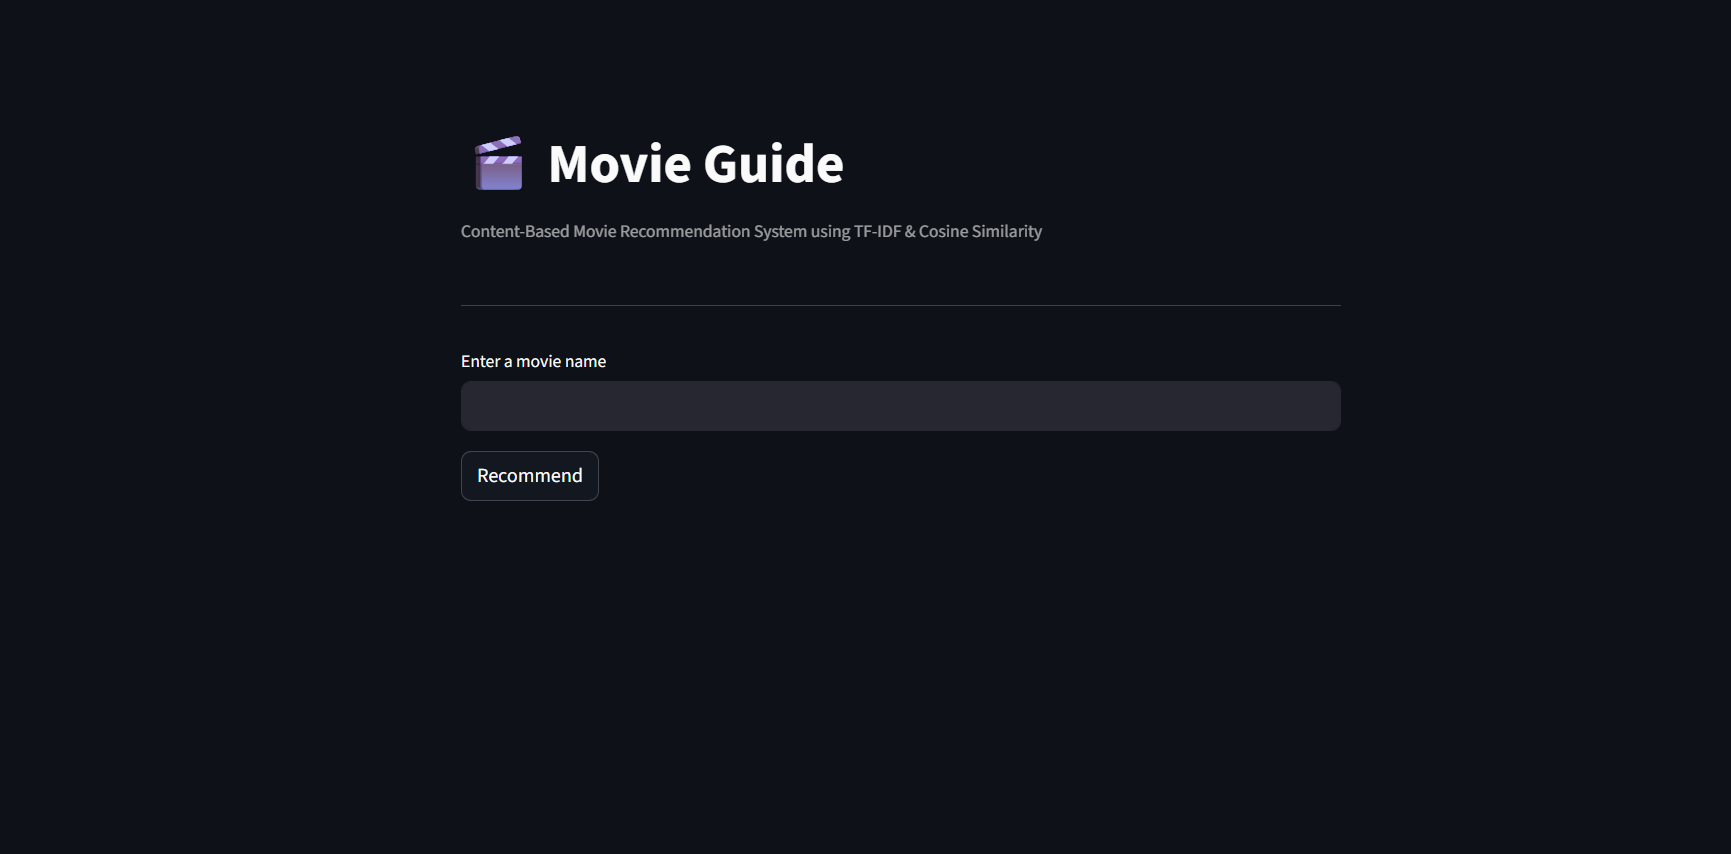
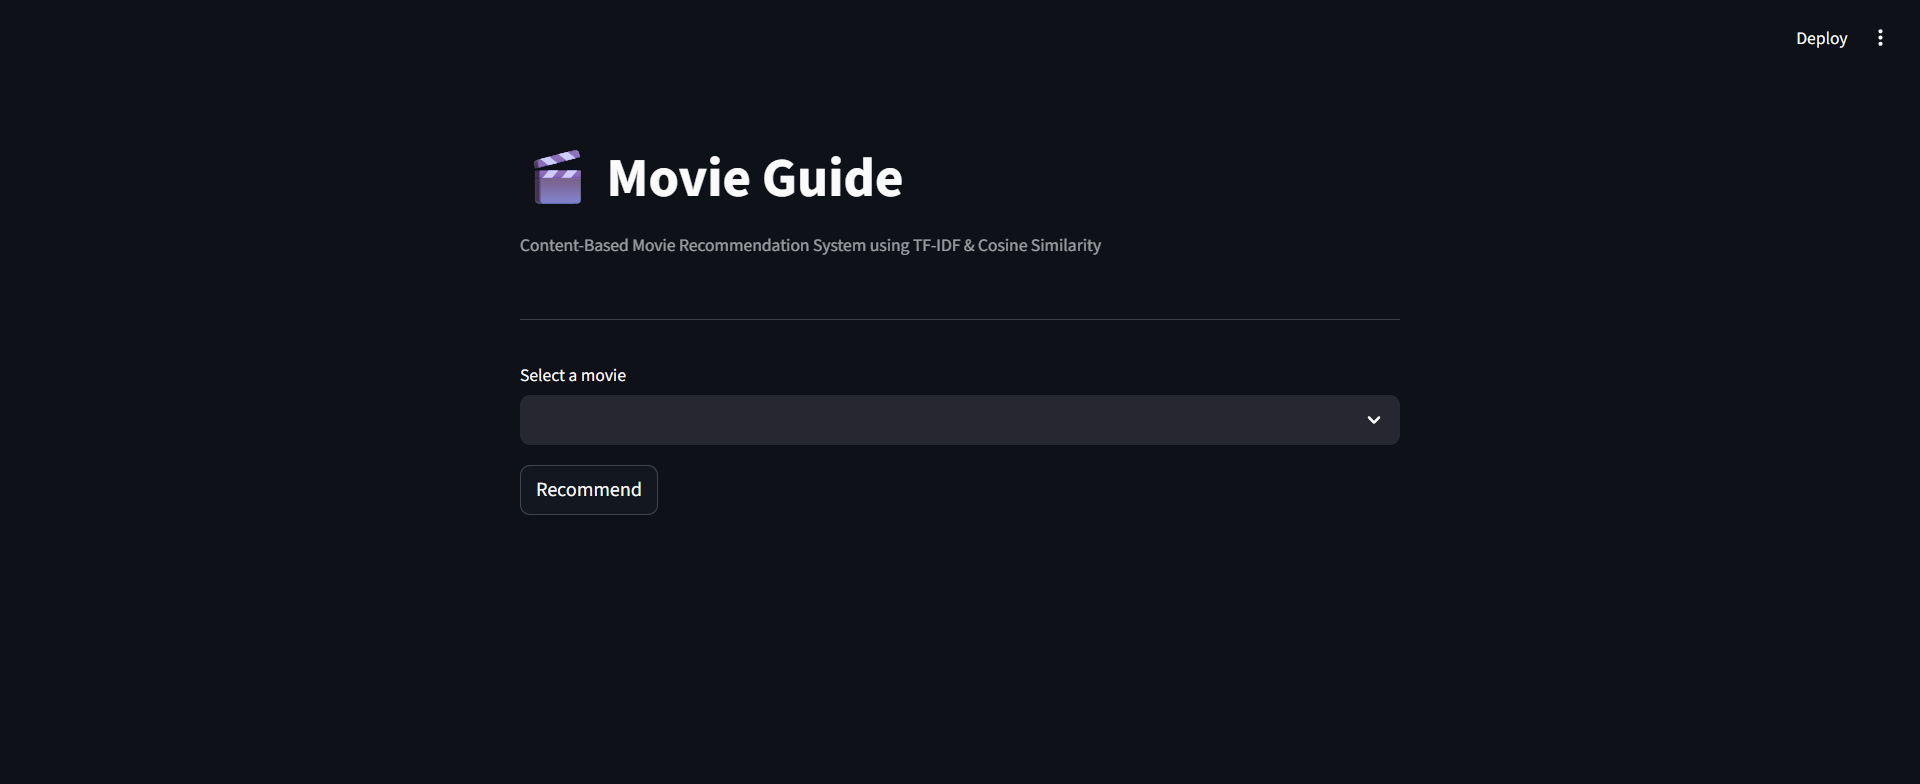
Finalize Movie Guide ML project with API, Streamlit UI, and documentation

diff --git a/src/streamlit_app.py b/src/streamlit_app.py
@@ -9,7 +9,7 @@ import sys
 # allow importing from src folder
 sys.path.append(os.path.abspath(os.path.join(os.path.dirname(__file__), '..')))
 
-API_URL = "https://movie-guide-api.onrender.com/recommend"
+API_URL = "http://127.0.0.1:5000/recommend"
 
 
 # ---------- Load Movie Metadata ----------

diff --git a/api/app.py b/api/app.py
@@ -64,4 +64,4 @@ def recommend_post():
 
 
 if __name__ == "__main__":
-    app.run(host="0.0.0.0", port=10000)
+    app.run(debug=True)

diff --git a/README.md b/README.md
@@ -1,58 +1,65 @@
- 
 # Movie Guide — Movie Recommendation System
-Built as a beginner Machine Learning project demonstrating content-based recommendation systems using TF-IDF and cosine similarity.
 
-A **content-based movie recommendation system** built using **TF-IDF vectorization** and **cosine similarity**.  
-The system recommends movies similar to a given title by analyzing textual features such as genres, keywords, cast, and movie overview.
+**Movie Guide** is a content-based movie recommendation system built using **TF-IDF vectorization** and **cosine similarity**.  
+The system recommends movies similar to a given title by analyzing textual features such as **genres, keywords, cast, and movie overview**.
 
-This project demonstrates an end-to-end machine learning workflow, including data preprocessing, feature engineering, similarity modeling, and deployment using an interactive web application.
+This project demonstrates an **end-to-end machine learning workflow**, including data preprocessing, feature engineering, model building, API integration, and an interactive web interface.
 
 ---
 
 # Features
 
 - Content-based movie recommendation system
-- TF-IDF based text feature vectorization
-- Cosine similarity for movie matching
-- Interactive web application built with Streamlit
-- Clean modular project architecture
-- Fast recommendations using saved ML artifacts
-- Handles flexible movie title input
+- Text feature engineering using movie metadata
+- TF-IDF vectorization of movie features
+- Cosine similarity based recommendation engine
+- Flask API for recommendation requests
+- Interactive Streamlit web interface
+- Fast recommendations using precomputed similarity matrix
+- Displays movie ratings in recommendation results
+- Modular and clean project architecture
 
 ---
 
 # How the Recommendation System Works
 
-The system follows this pipeline:
+The recommendation engine follows this pipeline:
 
-```
+
 Movie Metadata
-        ↓
+↓
 Text Preprocessing
-        ↓
+↓
 Feature Engineering (combined_features)
-        ↓
+↓
 TF-IDF Vectorization
-        ↓
+↓
 Cosine Similarity Matrix
-        ↓
-Recommendation Function
-        ↓
+↓
+Recommendation Engine
+↓
+Flask API
+↓
 Streamlit Web Interface
-```
 
-When a user enters a movie title:
 
-1. The system finds the movie in the dataset.
-2. It retrieves similarity scores from the cosine similarity matrix.
-3. Movies are ranked based on similarity.
-4. The top recommended movies are returned.
+## Recommendation Flow
+
+When a user selects a movie:
+
+1. The selected movie is matched in the dataset.
+2. The system retrieves similarity scores from the cosine similarity matrix.
+3. Movies are ranked based on similarity scores.
+4. The top N similar movies are returned.
+5. The results are displayed in the Streamlit interface with ratings.
 
 ---
 
 # Dataset
 
-The project uses a movie metadata dataset containing **~5800 movies** with attributes such as:
+The project uses a movie metadata dataset containing **approximately 5800 movies**.
+
+### Key attributes include:
 
 - Movie Title
 - Genres
@@ -62,90 +69,117 @@ The project uses a movie metadata dataset containing **~5800 movies** with attri
 - Vote Average
 - Popularity
 
-After preprocessing, the final dataset contains:
+After preprocessing, the dataset contains approximately:
 
-```
+
 5798 movies
-36 features
-```
+36 processed features
+
 
 ---
 
 # Technologies Used
 
-- Python
-- Pandas
-- Scikit-learn
-- TF-IDF Vectorizer
-- Cosine Similarity
-- Streamlit
+- **Python**
+- **Pandas**
+- **NumPy**
+- **Scikit-learn**
+- **TF-IDF Vectorizer**
+- **Cosine Similarity**
+- **Flask** (API layer)
+- **Streamlit** (web interface)
+
+---
+
+# Project Architecture
+
+The project follows a **modular machine learning architecture**:
+
+
+User Interface (Streamlit)
+↓
+Flask API
+↓
+Recommendation Engine
+↓
+TF-IDF + Cosine Similarity Model
+↓
+Preprocessed Movie Metadata
+
+
+This structure separates **model logic, API handling, and UI**, making the system easier to maintain and extend.
 
 ---
 
 # Project Structure
 
-```
+
 movie_guide/
 │
 ├── assets/
-│   ├── app_home.png
-│   ├── recommendation_results.png
-│   └── recommendation_example.png
+│ ├── app_home.png
+│ ├── recommendation_results.png
+│ └── recommendation_example.png
 │
 ├── data/
-│   └── processed/
-│       ├── movies_final.csv
-│       ├── credits_clean.csv
-│       └── ratings_summary
+│ └── processed/
+│ ├── movies_final.csv
+│ ├── credits_clean.csv
+│ └── ratings_summary
 │
 ├── models/
-│   ├── tfidf_vectorizer.pkl
-│   ├── similarity_matrix.pkl
-│   └── movies_metadata.pkl
+│ ├── tfidf_vectorizer.pkl
+│ ├── similarity_matrix.pkl
+│ └── movies_metadata.pkl
 │
 ├── notebooks/
-│   ├── 01_explore_data.ipynb
-│   ├── 02_cleaning_exploration.ipynb
-│   ├── 03_clean_movie_dataset.ipynb
-│   ├── 04_clean_credits_dataset.ipynb
-│   ├── 05_process_ratings.ipynb
-│   ├── 06_final_dataset.ipynb
-│   └── 07_tfidf_vectorization.ipynb
+│ ├── 01_explore_data.ipynb
+│ ├── 02_cleaning_exploration.ipynb
+│ ├── 03_clean_movie_dataset.ipynb
+│ ├── 04_clean_credits_dataset.ipynb
+│ ├── 05_process_ratings.ipynb
+│ ├── 06_final_dataset.ipynb
+│ └── 07_tfidf_vectorization.ipynb
+│
+├── api/
+│ └── app.py
 │
 ├── src/
-│   ├── __init__.py
-│   ├── recommender.py
-│   └── app.py
+│ ├── init.py
+│ └── recommender.py
 │
+├── streamlit_app.py
 ├── requirements.txt
 ├── README.md
 └── .gitignore
-```
+
+
+---
 
 # Installation
 
-Clone the repository:
+## Clone the repository
 
 ```bash
-git clone https://github.com/yourusername/movie-guide.git
-cd movie-guide
+git clone https://github.com/Mohd-Faizan-Khan/Movie_Guide.git
+cd Movie_Guide
 ```
 
-Create a virtual environment:
+## Create a virtual environment
 
 ```bash
 python -m venv venv
 ```
 
-Activate the environment
+## Activate the environment
 
-Windows:
+### Windows
 
 ```bash
 venv\Scripts\activate
 ```
 
-Install dependencies:
+## Install dependencies
 
 ```bash
 pip install -r requirements.txt
@@ -155,70 +189,70 @@ pip install -r requirements.txt
 
 # Running the Application
 
-Run the Streamlit application:
+## Start the Flask API
 
 ```bash
-streamlit run src/app.py
+python api/app.py
 ```
 
-The application will open automatically in your browser.
+## Start the Streamlit UI
 
----
-
-# Example
-
-User input:
-
-```
-Inception
+```bash
+streamlit run streamlit_app.py
 ```
 
-Recommended movies:
+## Open the browser
 
 ```
-1. Don Jon
-2. The Revenant
-3. (500) Days of Summer
-4. Hesher
-5. Tenet
+http://localhost:8501
 ```
-
-Recommendations are based on **text similarity between movie metadata features**.
 
 ---
 
 # Application Preview
 
-- Movie search interface
-![app_home](image-4.png)
-- Recommendation results table
-![recommendation_results](image-2.png)
-- Recommendation example
-![recommendation_example](image-3.png)
+## Movie Selection Interface
+
+![Movie Selection Interface](assets/app_home.png)
+
+---
+
+## Recommendation Results
+
+![Recommendation Results](assets/recommendation_results.png)
+
+---
+
+## Example Recommendation
+
+![Example Recommendation](assets/recommendation_example.png)
+
 ---
 
 # Future Improvements
 
-Possible enhancements for the project:
+Potential enhancements for this project:
 
-- Add movie posters using TMDB API
-- Genre-based filtering
-- Hybrid recommendation system
-- Collaborative filtering
-- Deploy the application online
+- Add movie posters using **TMDB API**
+- Implement **collaborative filtering**
+- Build a **hybrid recommendation system**
+- Add **genre filters**
+- Improve search with **fuzzy matching**
+- Deploy the system as a **cloud application**
 
 ---
 
 # Key Learnings
 
-Through this project I learned:
+Through this project I gained hands-on experience with:
 
-- Building a **content-based recommender system**
-- Text feature engineering
-- TF-IDF vectorization
-- Cosine similarity modeling
-- Modular machine learning project architecture
-- Developing interactive ML applications using Streamlit
+- Building **content-based recommendation systems**
+- Text feature engineering for **machine learning**
+- **TF-IDF vectorization**
+- **Cosine similarity modeling**
+- **Modular machine learning project design**
+- Building APIs using **Flask**
+- Developing ML interfaces using **Streamlit**
 
 ---
 
@@ -227,4 +261,7 @@ Through this project I learned:
 **Mohd Faizan Khan**
 
 B.Tech — Information Technology  
-Aspiring AI Engineer | Python Developer
+Aspiring **AI Engineer | Python Developer**
+
+GitHub  
+https://github.com/Mohd-Faizan-Khan
